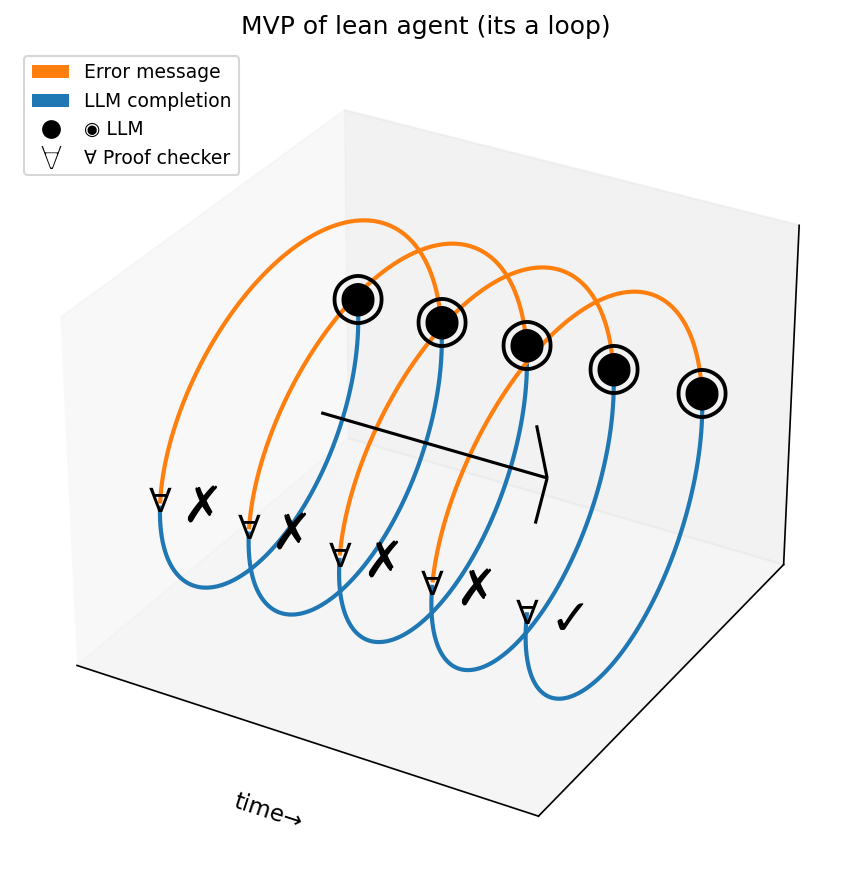
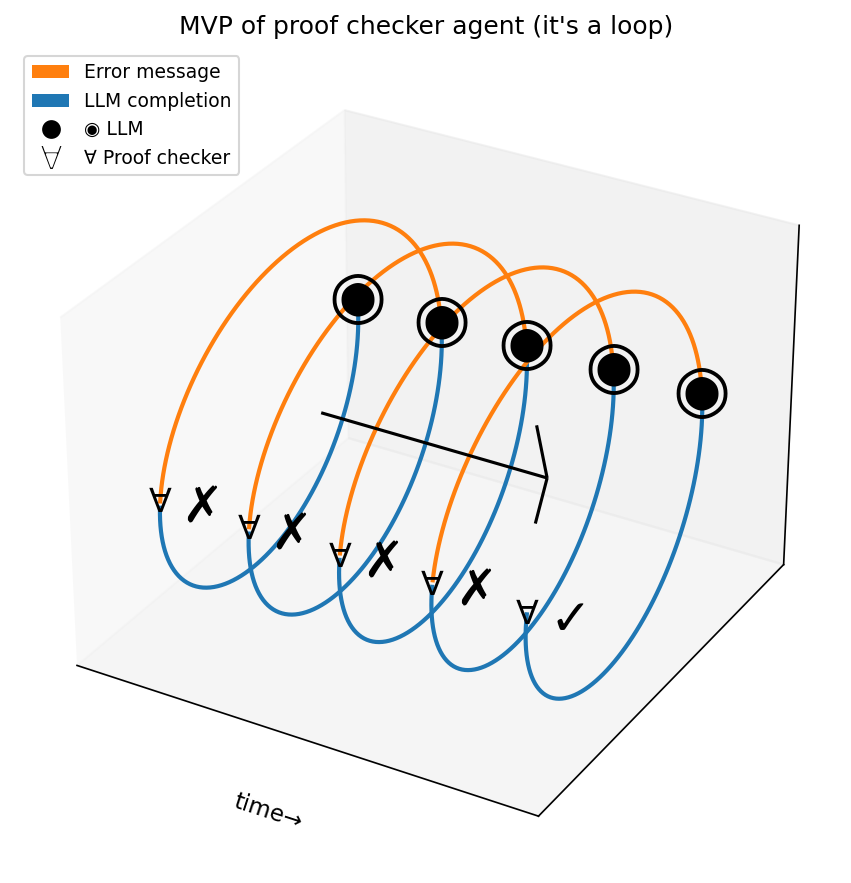
Add legend explaining helix colors and symbols

Changed region(s): [[0.2139, 0.0, 0.7944, 0.0612]]

diff --git a/scripts/lean_agent_helix.py b/scripts/lean_agent_helix.py
@@ -32,7 +32,7 @@ ax = fig.add_subplot(111, projection='3d')
 t_min, t_max = t.min(), t.max()
 k_vals = np.arange(-10, 20)
 
-# Maxima at t = pi/2 + 2kπ (LLM), minima at t = 3pi/2 + 2kπ (Lean)
+# Maxima at t = pi/2 + 2kπ (LLM), minima at t = 3pi/2 + 2kπ (Proof checker)
 t_maxima = np.pi/2 + 2 * np.pi * k_vals
 t_minima = 3*np.pi/2 + 2 * np.pi * k_vals
 
@@ -56,10 +56,10 @@ for i in range(len(t_ext) - 1):
     t_start, t_end = t_ext[i], t_ext[i+1]
     mask = (t >= t_start) & (t <= t_end)
     if labels[i] == "min" and labels[i+1] == "max":
-        # Lean -> LLM
+        # Proof checker -> LLM
         c = color_lean_to_llm
     elif labels[i] == "max" and labels[i+1] == "min":
-        # LLM -> Lean
+        # LLM -> Proof checker
         c = color_llm_to_lean
     else:
         # Shouldn't really happen, but fall back to one color
@@ -68,7 +68,7 @@ for i in range(len(t_ext) - 1):
 
 # --- Mark extrema ---
 
-# Coordinates for maxima (LLM) and minima (Lean)
+# Coordinates for maxima (LLM) and minima (Proof checker)
 x_max = t_maxima
 y_max = a * np.sin(t_maxima)
 z_max = b * np.cos(t_maxima)
@@ -77,7 +77,7 @@ x_min = t_minima
 y_min = a * np.sin(t_minima)
 z_min = b * np.cos(t_minima)
 
-# Lean toolcalls: ∀ on the helix
+# Proof checker toolcalls: ∀ on the helix
 forall = "∀"
 for i, (xn, yn, zn) in enumerate(zip(x_min, y_min, z_min)):
     ax.text(xn, yn, zn, forall, fontsize=16, ha='center', va='center')
@@ -129,7 +129,7 @@ legend_elements = [
 ax.legend(handles=legend_elements, loc='upper left', fontsize=9)
 
 # Title
-ax.set_title("MVP of lean agent (its a loop)")
+ax.set_title("MVP of proof checker agent (it's a loop)")
 
 plt.tight_layout()
 
